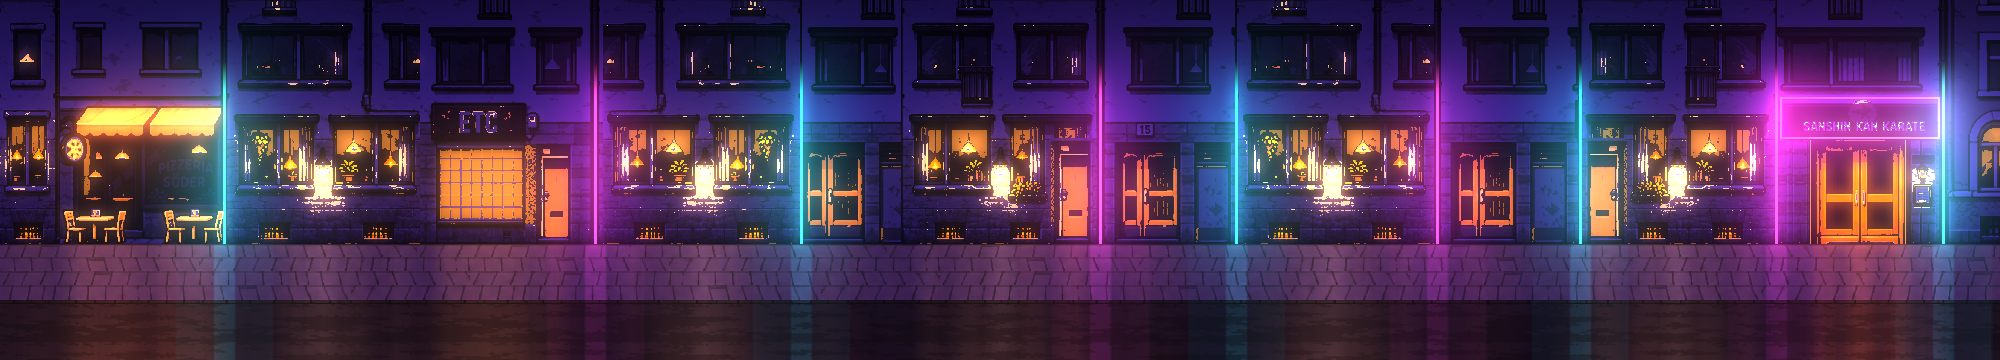
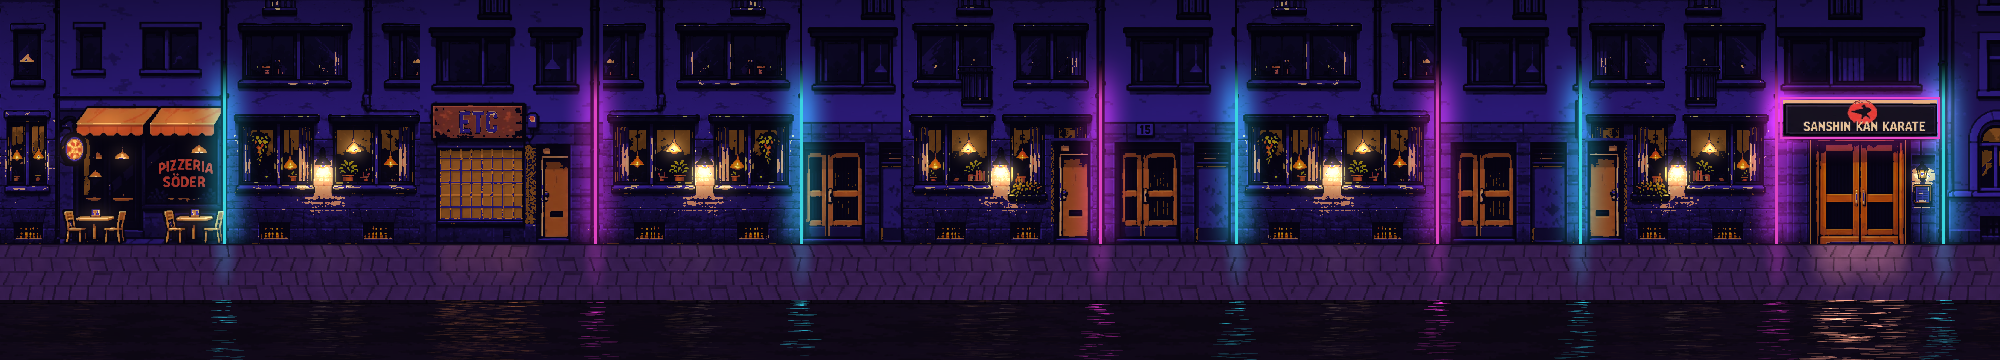
Rework the street light: dark sign face, small lamps, local spill, broken reflections
Revision 2 of the street re-light, regenerated from the preserved pre-relight
asset (docs/art/lighting/source/). Each receiving surface is treated on its own:
the sign face stays dark with warm readable lettering and the red roundel, only
the frame tube emits; only saturated lamp glass counts as a light core, pale
cones and curtains are ordinary material; ground-floor panes are amber-lit but
keep their own shading so plants and frames survive; tubes spill a few pixels
onto the facade; the pavement gets limited pools and the road broken, mostly
horizontal dashes with dark gaps, anchored under each source. The broad wash,
far bloom and continuous reflection bands are gone. Dojo output unchanged
(byte-identical when regenerated). Geometry and alpha unchanged.

Validation: npm run check passed (86 tests, guard, build); a keyboard-driven
run on the page's own instance cleared the full level with the revised assets.

diff --git a/docs/art/lighting/relight.html b/docs/art/lighting/relight.html
@@ -10,8 +10,9 @@ const { relightStreet, relightDojo, findPipes, STREET_DEFAULTS, DOJO_DEFAULTS } 
 const load = (u) => new Promise((res, rej) => { const i = new Image(); i.onload = () => res(i); i.onerror = () => rej(new Error('load ' + u)); i.src = u + '?t=' + Date.now(); });
 const toImg = (img) => { const c = document.createElement('canvas'); c.width = img.naturalWidth; c.height = img.naturalHeight; const g = c.getContext('2d', { willReadFrequently: true }); g.drawImage(img, 0, 0); const d = g.getImageData(0, 0, c.width, c.height); return { w: c.width, h: c.height, data: d.data }; };
 const toCanvas = (img) => { const c = document.createElement('canvas'); c.width = img.w; c.height = img.h; c.getContext('2d').putImageData(new ImageData(img.data, img.w, img.h), 0, 0); return c; };
-const street = toImg(await load('../../../assets/backgrounds/street.png'));
-const dojo = toImg(await load('../../../assets/backgrounds/dojo.png'));
+// Always start from the preserved pre-relight production assets, never from an already lit output.
+const street = toImg(await load('source/street-v1.png'));
+const dojo = toImg(await load('source/dojo-approved.png'));
 // Drainpipes at the building joints that carry neon tubes (measured on street.png), with the colour
 // each takes; the pipe right of the dojo is cyan and the one left of its bay magenta, as in the reference.
 const STREET_GEOMETRY = {

diff --git a/docs/art/lighting/README.md b/docs/art/lighting/README.md
@@ -13,16 +13,35 @@ renderer constant moves.
 The two treatments are deliberately different: the street is dark and vivid, the dojo is
 restrained. Neither reference's character, score, arrow, caption or border is in the assets.
 
+## How the street light is built (revision 2)
+
+Each receiving surface is treated on its own, so no light continues as one band across
+facade, pavement and road:
+
+- **Sign**: the face stays dark, the lettering is kept warm and readable and the red roundel
+  keeps its colour; only the magenta tube around the frame emits, with a short spill.
+- **Lamps**: only saturated bright lamp glass counts as a core; it keeps its brightness and
+  gets a small cone. Pale cream (painted lamp cones, curtains, sills) is ordinary material.
+- **Windows**: ground-floor glass is amber-lit while keeping each pane's own shading, so
+  plants, frames and curtains survive; upper glass stays dark and cool.
+- **Facade**: dark night grade that preserves the pixel texture; tubes on the drainpipes add
+  a local spill of a few pixels, nothing broad.
+- **Pavement**: a limited pool under each light source, following the slab texture.
+- **Road**: broken, mostly horizontal dashes anchored under each source, rows gated by
+  deterministic noise so there are dark gaps, with varying length, offset and intensity.
+
 ## Reproducing
 
-`relight.mjs` is pure pixel code (no DOM). `relight.html` loads the production PNGs, runs it
-and exposes `window.RL` for driving from a console; it needs to be served over http (for
-example `npm start`, then `/docs/art/lighting/relight.html`). The parameters that produced
-the shipped assets are the defaults in `relight.mjs`; the measured geometry (sign box,
-drainpipe columns and their tube colours, the yellow building's cool zone, the dojo tube
-fixtures and emblem box) is in `relight.html`.
+`relight.mjs` is pure pixel code (no DOM). `relight.html` loads the preserved pre-relight
+assets from `source/`, runs the pipeline and exposes `window.RL` for driving from a console;
+it needs to be served over http (for example `npm start`, then
+`/docs/art/lighting/relight.html`). Always regenerate from `source/`, never from an already
+lit output. The parameters that produced the shipped assets are the defaults in
+`relight.mjs`; the measured geometry (sign box, door box, drainpipe columns and their tube
+colours, the yellow building's cool zone, the dojo tube fixtures and emblem box) is in
+`relight.html`.
 
-The inputs were the previous production assets:
+The inputs are the previous production assets, kept byte-identical in `source/`:
 
 | Input | SHA-256 |
 |---|---|

diff --git a/assets/backgrounds/street.md b/assets/backgrounds/street.md
@@ -7,7 +7,7 @@ Delivered as `street-artwork-v1` on 8 November 2026, built to the measured brief
 |---|---|
 | File | `assets/backgrounds/street.png` |
 | Dimensions | 2000 x 360 px, RGBA, every pixel opaque |
-| SHA-256 | 85b2da8a96f74ffdf5ba4c5f57d46fc877b94439be5b6da1754e6dbee3ab9a33 (lighting pass of 8 November 2026; the street-v1 delivery it was made from is a8dcc7c0…, see `docs/art/lighting/README.md`) |
+| SHA-256 | 548709aa41e305ec1d7b9df6c23f699f28dc5d6e393ae788327d8f6d9db1df11 (lighting pass revision 2 of 8 November 2026; the street-v1 delivery it was made from is a8dcc7c0…, kept in `docs/art/lighting/source/`, see `docs/art/lighting/README.md`) |
 | Placement | world art column 0 (world x 0), row 0, drawn 1:1, never scaled |
 | Wall/pavement boundary | art row 244 (`FLOOR_TOP` 122); walkable feet rows 244-340 |
 | Dojo door leaves | art x 1816-1903, y 140-243 (88 x 104): two 44 px leaves centred on x 1860 (`exit.x` 930) |
